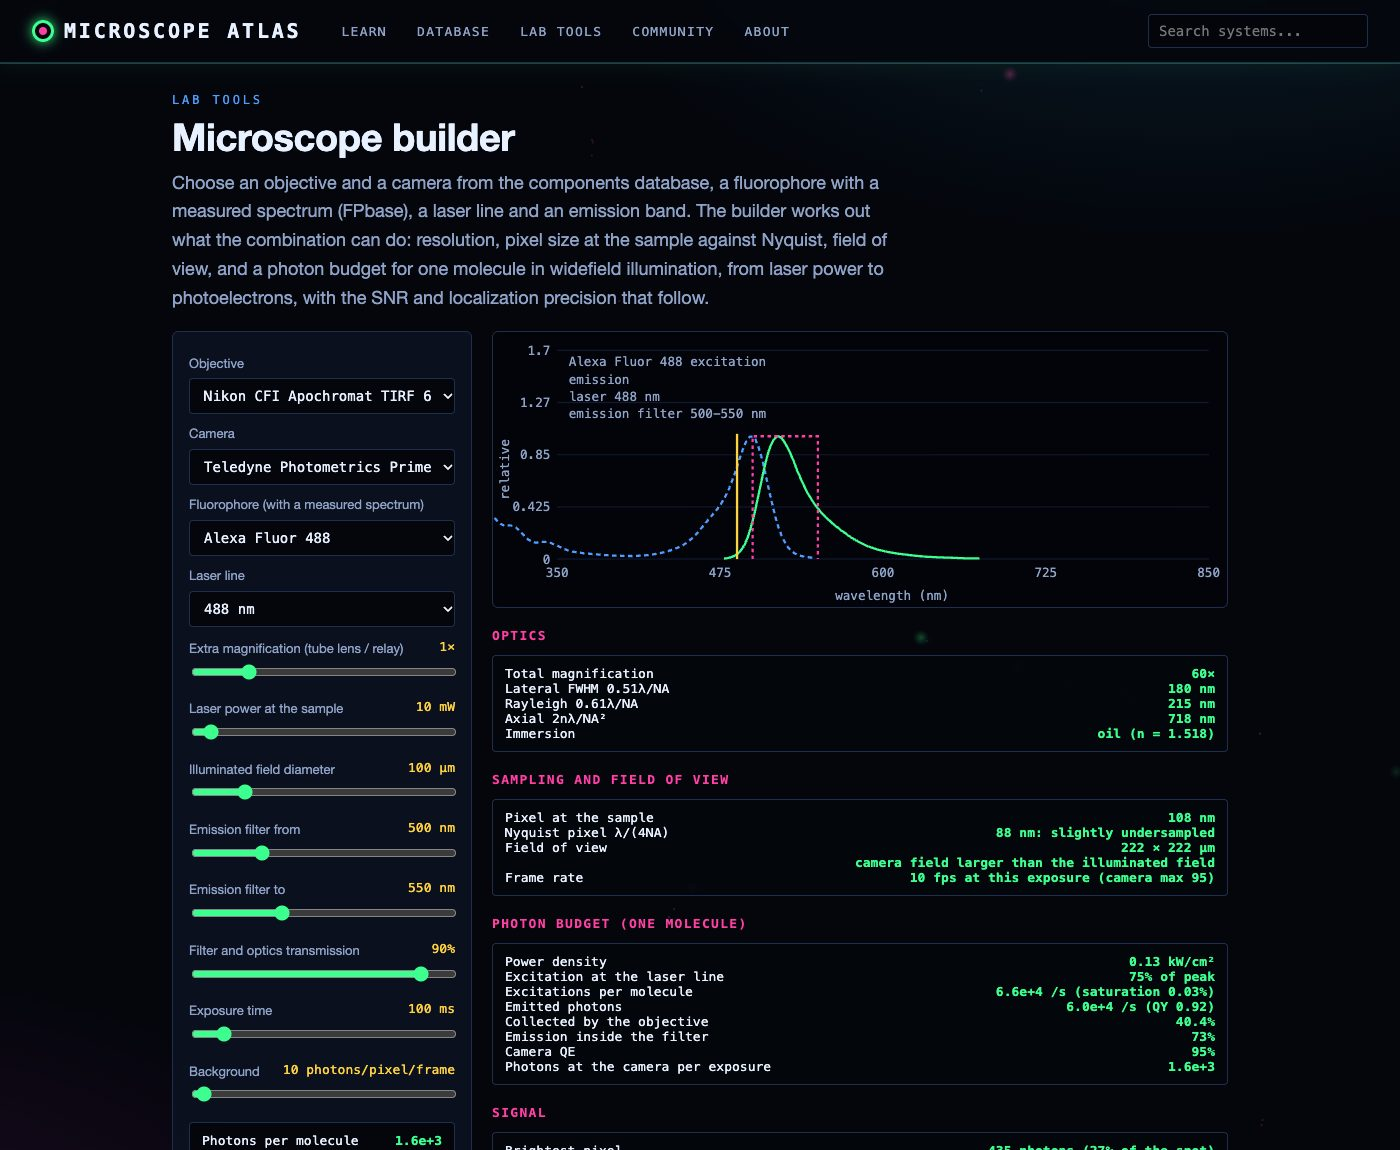
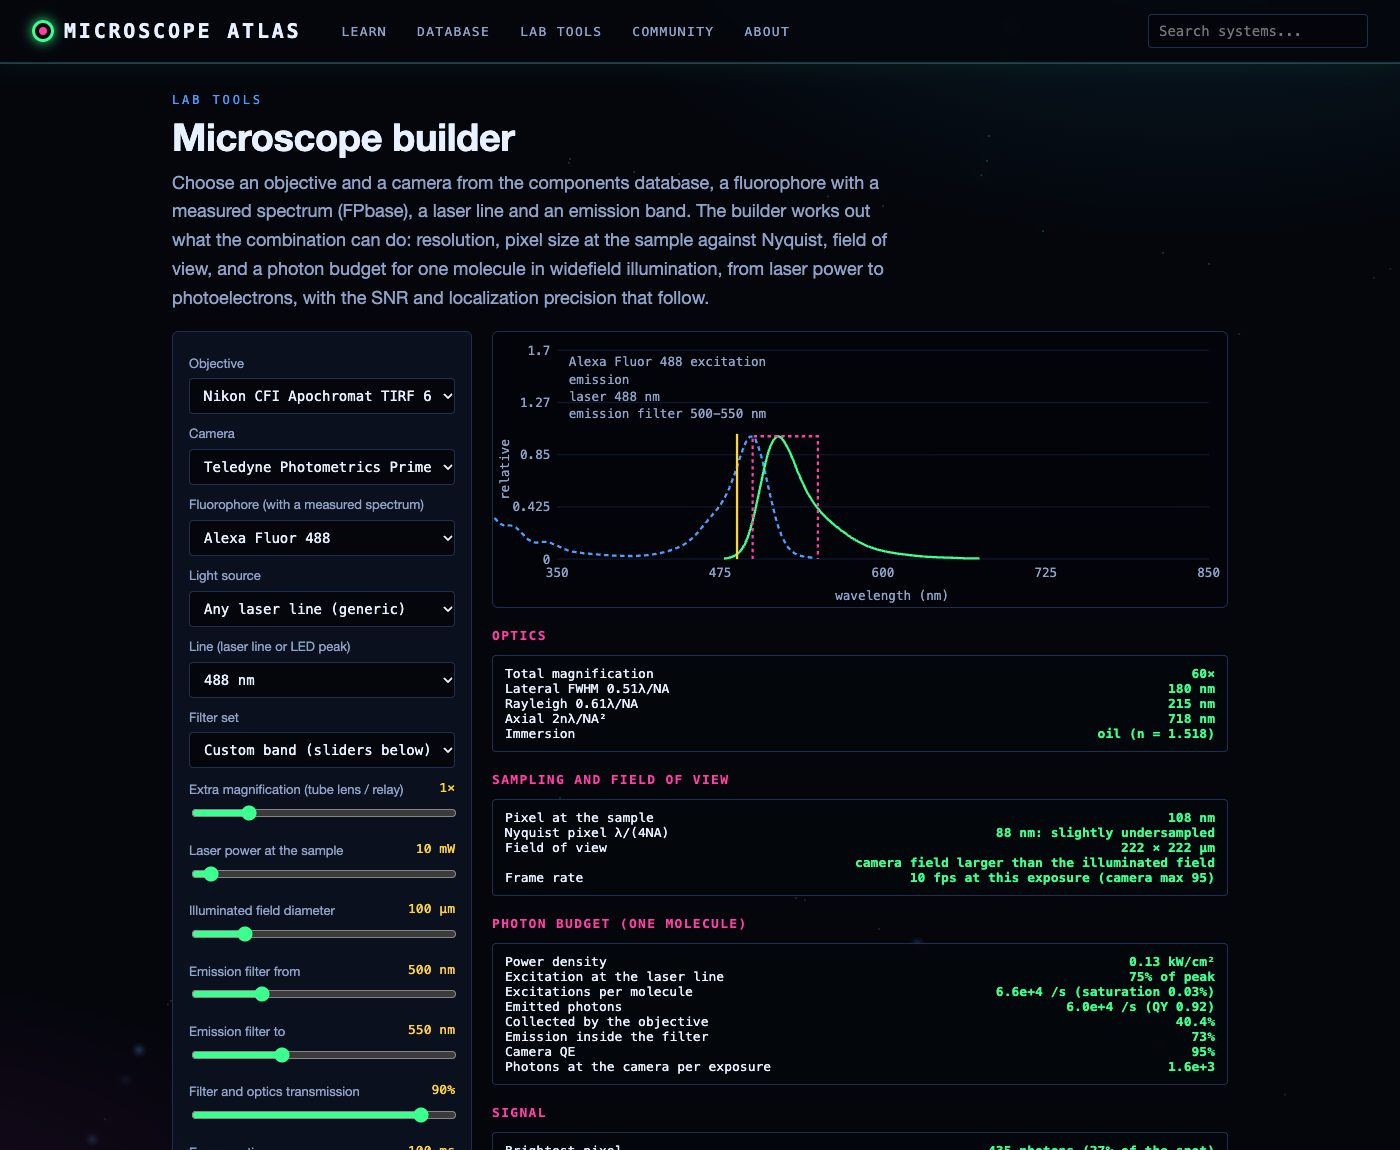
R6: microscope builder picks light sources and filter sets from the database

Changed region(s): [[0.1229, 0.487, 0.3379, 1.0]]

diff --git a/atlas/web/static/builder.js b/atlas/web/static/builder.js
@@ -2,24 +2,42 @@
 // spectrum, a laser line and an emission band; get resolution, sampling, field of view, photon budget and SNR.
 import { route, app, api, esc } from './core.js';
 import { layout, addSlider, setReadout, linePlot, div, fmt } from './sim_ui.js';
-import { parseObjective, parseCamera, report } from './builder_calc.js';
+import { parseObjective, parseCamera, parseSource, parseFilterSet, pickBand, report } from './builder_calc.js';
 
 const LINES = [405, 445, 458, 488, 514, 532, 561, 594, 640, 685, 730];
 const INTRO = 'Choose an objective and a camera from the components database, a fluorophore with a measured spectrum (FPbase), a laser line and an emission band. The builder works out what the combination can do: resolution, pixel size at the sample against Nyquist, field of view, and a photon budget for one molecule in widefield illumination, from laser power to photoelectrons, with the SNR and localization precision that follow.';
 
 route('builder', async () => {
   app().innerHTML = '<p class="kicker"><a href="#/lab">Lab tools</a></p><h1>Microscope builder</h1><div id="mb"><p class="mute">Loading components…</p></div>';
-  const [objs, cams, spectra] = await Promise.all([api('/components/objectives'), api('/components/detectors'), api('/spectra')]);
+  const [objs, cams, spectra, srcs, sets] = await Promise.all(['/components/objectives', '/components/detectors', '/spectra', '/components/light_sources', '/components/filters'].map(u => api(u)));
   const O = objs.map(parseObjective).filter(Boolean), C = cams.map(parseCamera).filter(Boolean), names = Object.keys(spectra).sort();
+  const L = srcs.map(parseSource).filter(Boolean), F = sets.map(parseFilterSet).filter(Boolean);
+  // Lines a source offers: the ones it states, plus the common lines inside a stated range (a family of single lasers).
+  const linesFor = src => !src ? LINES : [...new Set([...src.lines, ...(src.range ? LINES.filter(l => l >= src.range[0] && l <= src.range[1]) : [])])].sort((a, b) => a - b);
   const { controls, view, readout } = layout(app().querySelector('#mb'), INTRO);
   const st = { obj: 'nikon-cfi-apo-tirf-60xc-oil', cam: 'photometrics-prime-bsi-express', extra: 1, fl: names.includes('Alexa Fluor 488') ? 'Alexa Fluor 488' : names[0],
-    laser: 488, power: 10, field: 100, lo: 500, hi: 550, T: 90, exp: 100, bg: 10, qe: 80, read: 1.5, fluor: null };
+    src: '', flt: '', laser: 488, power: 10, field: 100, lo: 500, hi: 550, T: 90, exp: 100, bg: 10, qe: 80, read: 1.5, fluor: null };
   const opt = (rows, cur, lab) => rows.map(r => `<option value="${esc(r.id ?? r)}" ${(r.id ?? r) === cur ? 'selected' : ''}>${esc(lab(r))}</option>`).join('');
   const pick = div(controls);
   pick.innerHTML = `<label>Objective</label><select id="mb-obj">${opt(O, st.obj, o => `${o.label} (${o.M}×/${o.NA})`)}</select>
     <label>Camera</label><select id="mb-cam">${opt(C, st.cam, c => `${c.label} (${c.type})`)}</select>
     <label>Fluorophore (with a measured spectrum)</label><select id="mb-fl">${opt(names, st.fl, n => n)}</select>
-    <label>Laser line</label><select id="mb-laser">${opt(LINES, st.laser, l => l + ' nm')}</select>`;
+    <label>Light source</label><select id="mb-src"><option value="">Any laser line (generic)</option>${opt(L, st.src, x => `${x.label} (${x.type})`)}</select>
+    <label>Line (laser line or LED peak)</label><select id="mb-laser"></select>
+    <label>Filter set</label><select id="mb-flt"><option value="">Custom band (sliders below)</option>${opt(F, st.flt, x => x.label + (x.status === 'discontinued' ? ' (obsolete)' : ''))}</select>`;
+  const lineSel = pick.querySelector('#mb-laser');
+  function mountLines() {
+    const ls = linesFor(L.find(x => x.id === st.src));
+    if (!ls.includes(st.laser)) st.laser = ls.reduce((b, l) => (Math.abs(l - st.laser) < Math.abs(b - st.laser) ? l : b), ls[0]);
+    lineSel.innerHTML = opt(ls, st.laser, l => l + ' nm');
+  }
+  // With a filter set chosen, the emission band is the set's band nearest the dye's emission (above the line).
+  function applyFilter() {
+    const set = F.find(x => x.id === st.flt);
+    if (!set || !st.fluor) return;
+    const [c, w] = pickBand(set.em, st.fluor.em, st.laser);
+    st.lo = Math.round(c - w / 2); st.hi = Math.round(c + w / 2); mountSliders();
+  }
   const sliders = div(controls), assumed = div(controls);
   controls.appendChild(readout);
   const plot = div(view), groups = ['Optics', 'Sampling and field of view', 'Photon budget (one molecule)', 'Signal'].map(h => { const d = div(view); d.innerHTML = `<h3>${h}</h3>`; return div(d, 'readout'); });
@@ -47,16 +65,19 @@ route('builder', async () => {
     const rows = await api('/fluorophores?q=' + encodeURIComponent(name) + '&limit=50');
     st.fluor = (Array.isArray(rows) ? rows : rows.rows || []).find(r => r.name === name) || null;
     if (retune && st.fluor) {
-      st.laser = LINES.filter(l => l <= st.fluor.ex + 5).pop() || LINES[0];
+      const ls = linesFor(L.find(x => x.id === st.src));
+      st.laser = ls.filter(l => l <= st.fluor.ex + 5).pop() || ls[0];
       st.lo = Math.max(st.laser + 10, Math.round(st.fluor.em - 15)); st.hi = st.lo + 50;
-      pick.querySelector('#mb-laser').value = st.laser; mountSliders();
+      mountLines(); mountSliders(); applyFilter();
     }
     draw();
   }
   pick.querySelector('#mb-obj').onchange = e => { st.obj = e.target.value; draw(); };
   pick.querySelector('#mb-cam').onchange = e => { st.cam = e.target.value; mountAssumed(C.find(c => c.id === st.cam)); draw(); };
   pick.querySelector('#mb-fl').onchange = e => setFluor(e.target.value, true);
-  pick.querySelector('#mb-laser').onchange = e => { st.laser = +e.target.value; draw(); };
+  lineSel.onchange = e => { st.laser = +e.target.value; applyFilter(); draw(); };
+  pick.querySelector('#mb-src').onchange = e => { st.src = e.target.value; mountLines(); applyFilter(); draw(); };
+  pick.querySelector('#mb-flt').onchange = e => { st.flt = e.target.value; applyFilter(); draw(); };
 
   function draw() {
     const obj = O.find(o => o.id === st.obj), cam = C.find(c => c.id === st.cam), sp = spectra[st.fl], f = st.fluor;
@@ -83,9 +104,13 @@ route('builder', async () => {
     setReadout(groups[3], [['Brightest pixel', `${fmt(r.peakPx)} photons (${(r.frac * 100).toFixed(0)}% of the spot)`], ['Peak-pixel SNR', fmt(r.snrPeak)],
       ['Localization precision (Thompson; ×√2 for EMCCD)', `${r.locNm.toFixed(1)} nm`], ['Read noise', `${r.read} e⁻${cam.F > 1 ? ' (EM gain, excess noise √2)' : ''}`]]);
     setReadout(readout, [['Photons per molecule per frame', fmt(r.photons)], ['Pixel / Nyquist', `${r.pxS.toFixed(0)} / ${r.nyq.toFixed(0)} nm`], ['σ localization', `${r.locNm.toFixed(1)} nm`]]);
-    srcNote.innerHTML = `<p class="small mute">Specs from the database entries for the <a href="#/components/objectives">objective</a> and <a href="#/components/detectors">camera</a>; ε, QY and lifetime from FPbase for ${esc(st.fl)} (ε ${fmt(f.ec)} M⁻¹cm⁻¹, QY ${f.qy}${f.lifetime ? `, τ ${f.lifetime} ns` : ', τ 3 ns assumed'}).
+    const src = L.find(x => x.id === st.src), set = F.find(x => x.id === st.flt);
+    const exOk = set && set.ex.some(([c, w]) => Math.abs(st.laser - c) <= w / 2);
+    const hw = [src ? `<b>${esc(src.label)}</b>: the <a href="#/components/light_sources">database entry</a> states ${esc(src.power || 'no output power')}; set the power reaching the sample with the slider.${/LED|lamp|light engine/.test(src.type) ? ' LEDs are broad (tens of nm): the budget uses the peak wavelength, so treat it as an estimate.' : ''}` : '',
+      set ? `<b>${esc(set.label)}</b>: emission band ${st.lo}-${st.hi} nm from the set's emitter; the ${st.laser} nm line ${exOk ? 'falls inside' : 'is outside'} its exciter band${exOk ? '' : ' (fine for a laser that bypasses the exciter, not for lamp or LED illumination)'}.` : ''].filter(Boolean).join(' ');
+    srcNote.innerHTML = `${hw ? `<p class="small">${hw}</p>` : ''}<p class="small mute">Specs from the database entries for the <a href="#/components/objectives">objective</a> and <a href="#/components/detectors">camera</a>; ε, QY and lifetime from FPbase for ${esc(st.fl)} (ε ${fmt(f.ec)} M⁻¹cm⁻¹, QY ${f.qy}${f.lifetime ? `, τ ${f.lifetime} ns` : ', τ 3 ns assumed'}).
       Model: flat-top widefield illumination, isotropic emission, σ = 3.82×10⁻²¹ ε cm², two-level saturation, Gaussian PSF; it ignores polarization, blinking, bleaching and optics losses beyond the transmission slider.</p>`;
   }
-  mountSliders(); mountAssumed(C.find(c => c.id === st.cam));
+  mountLines(); mountSliders(); mountAssumed(C.find(c => c.id === st.cam));
   setFluor(st.fl, false);
 });

diff --git a/atlas/web/static/builder_calc.js b/atlas/web/static/builder_calc.js
@@ -61,3 +61,33 @@ export function report(cfg) {
     fpsMax: cam.fps ? Math.min(cam.fps, 1000 / exposureMs) : 1000 / exposureMs,
   };
 }
+
+// Display label: maker + name, without repeating a maker the name already starts with.
+const nameOf = x => { const m = x.manufacturer.split(' (')[0]; return x.name.toLowerCase().startsWith(m.split(' ')[0].toLowerCase()) ? x.name : `${m} ${x.name}`; };
+
+// Light source entry -> { id, label, type, lines: [nm] (discrete lines it states), range: [lo, hi] | null, power } or
+// null for sources the one-photon builder cannot use (pulsed multiphoton/STED lasers, sources with no stated lines).
+export function parseSource(s) {
+  if (/fs|ps laser/.test(s.type)) return null;
+  const w = String((s.specs || {}).Wavelengths || '');
+  const range = w.match(/(\d{3,4})\s*-\s*(\d{3,4})\s*nm/);
+  const lines = [...new Set([...w.replace(/(\d{3,4})\s*-\s*(\d{3,4})/g, ' ').matchAll(/(?<![\w./])(\d{3,4})(?:\/\d+)?(?![\d.])/g)].map(m => +m[1]).filter(v => v >= 300 && v <= 1100))].sort((a, b) => a - b);
+  if (!lines.length && !range) return null;
+  return { id: s.id, label: nameOf(s), type: s.type, lines, range: range ? [+range[1], +range[2]] : null, power: (s.specs || {})['Output power'] || '' };
+}
+
+// "470/40 nm (ET470/40x), 525/36 nm" -> [[470, 40], [525, 36]] (centre / bandwidth pairs; part numbers ignored).
+export const parseBands = text => [...String(text || '').replace(/\([^)]*\)/g, '').matchAll(/(\d{3}(?:\.\d+)?)\/(\d+(?:\.\d+)?)/g)].map(m => [+m[1], +m[2]]);
+
+// Filter-set entry -> { id, label, ex: bands, em: bands } or null when the emission bands are not given as centre/width.
+export function parseFilterSet(f) {
+  const em = parseBands((f.specs || {}).Emission);
+  return em.length ? { id: f.id, label: nameOf(f), ex: parseBands((f.specs || {}).Excitation), em, status: f.status } : null;
+}
+
+// The emission band of a set that a dye uses: the band above the laser line nearest the dye's emission peak.
+export function pickBand(bands, emPeak, laser) {
+  const above = bands.filter(([c, w]) => c - w / 2 > laser);
+  const pool = above.length ? above : bands;
+  return pool.reduce((b, x) => (Math.abs(x[0] - emPeak) < Math.abs(b[0] - emPeak) ? x : b), pool[0]);
+}

diff --git a/ROADMAP.md b/ROADMAP.md
@@ -15,7 +15,7 @@ Rules: sourced data only (see CLAUDE.md); new physics goes in `sim_engine.js` wi
 | R3 | A dedicated light-path diagram for every technique (was 29 of 51), plus step-through mode tying `light_path` steps to highlighted components | 51 of 51 diagrams | completed | 2026-11-10 round 9: 22 new diagrams (FLIM, FRET, FCS, FRAP, SPT, spectral, Raman, CARS/SRS, SHG, QPI, iSCAT, OCT, photoacoustic, X-ray, CLEM, high-content, slide scanner, intravital, miniscope, adaptive optics, light field, open hardware) in `lightpath_defs2.js`, helpers moved to `lightpath_kit.js`; 52 of 52 techniques have their own diagram, enforced by `tests/lightpath.test.mjs`. Round 10: step-through mode (`lightpath_steps.js`): Prev/Next or a click on a step highlights the parts it names (vocabulary + part-name matching on the main clause); 269 of 336 steps linked, coverage tested |
 | R4 | Image Lab: load your own image; PSF blur, noise, FFT, sampling, deconvolution; localize spots in a single-molecule frame | Works on a test TIFF/PNG; numbers checked against Python | completed | 2026-11-10 round 11: `#/imagelab` page (`imagelab.js`): test specimens or your own TIFF/PNG/JPEG as the object; PSF blur, binning, shot/background/read noise, Richardson-Lucy, power spectra with the 2NA/λ circle, Nyquist/SNR/correlation readouts. Browser TIFF reader `imagelab_io.js` checked against tifffile/numpy (`tests/test_imagelab.py`); image physics in `sim_engine_image.js` (re-exported by `sim_engine.js`, node-tested). Round 12: spot localization (`sim_engine_loc.js`: MAD noise, local-maximum detection, LM 2D Gaussian fit, matching to truth) with a single-molecule-frame specimen at known positions; error follows Thompson (3.6 vs 4.2 nm predicted); fits equal scipy curve_fit to 1e-4 |
 | R5 | Microscope builder: pick objective, camera, lasers and filters from the database; compute resolution, sampling, field of view, expected photons and SNR | Configurator page with tests of the calculations | completed | 2026-11-10 round 13: `#/builder` (`builder.js`, `builder_calc.js`): objective and camera from the database (specs parsed from their text: 23 objectives, 18 cameras usable; missing QE/read noise asked from the user), fluorophore with FPbase spectrum and ε/QY/τ, laser line, filter band. Reports resolution, Nyquist sampling, field of view, frame rate, photon budget (power density → σε at the line → saturation → QY → collection cone → band fraction → transmission → QE), peak SNR and localization precision. Physics in `sim_engine_photon.js` (re-exported, node-tested against hand values). Lasers and filter sets become database picks when R6 adds them |
-| R6 | Database growth: lasers and light sources, filter sets, more systems (target 450+), licensed instrument photos (Wikimedia Commons, with credits) | Validator passes; licence recorded per image | in_progress | 2026-11-10 round 14: new component kinds `light_sources` (28: lasers, laser engines, fs lasers, STED laser, LED engines, lamps) and `filters` (16 Chroma/Semrock sets), every spec from a fetched manufacturer page or datasheet (some hosted by distributors or universities, noted); availability caveats in summaries; validator, API, static export and a four-tab components page. Left: builder picks lasers/filters from the database, current Semrock sets, more systems toward 450, instrument photos |
+| R6 | Database growth: lasers and light sources, filter sets, more systems (target 450+), licensed instrument photos (Wikimedia Commons, with credits) | Validator passes; licence recorded per image | in_progress | 2026-11-10 round 14: new component kinds `light_sources` (28: lasers, laser engines, fs lasers, STED laser, LED engines, lamps) and `filters` (16 Chroma/Semrock sets), every spec from a fetched manufacturer page or datasheet (some hosted by distributors or universities, noted); availability caveats in summaries; validator, API, static export and a four-tab components page. Round 15: the builder picks the light source (its stated lines; common lines inside a stated range) and the filter set (emission band nearest the dye above the line; exciter check) from the database; parsers tested on the real entries (16 sources, 15 sets usable). Left: current Semrock sets, more systems toward 450, instrument photos |
 | R7 | Quiz: flashcards with spaced repetition and generated multiple choice | Page works offline; progress persists | completed 2026-11-09 | Six question generators plus 208 flashcards |
 | R8 | Technique comparison matrix (all techniques vs resolution, depth, speed, live-cell, cost) with sortable view | Matrix page | pending | |
 | R9 | Portfolio polish: links to George's public tools (FLIKA plugins etc.), case studies of his imaging work, only with his approval | George has reviewed the page | pending (needs George) | |

diff --git a/INTERFACE.md b/INTERFACE.md
@@ -54,7 +54,7 @@ JSON by `static_api.js`; Python-only tools show a notice.
 | `lab_bench.js`, `lab_bench2.js`, `lab_bench_calc.js`, `lab_bench_data.js` | Bench calculators: molarity, dilution, serial, units, percent, seeding, hemocytometer, centrifuge, recipes, photons |
 | `lab_analysis.js`, `lab_analysis2.js`, `lab_analysis_calc.js` | Analysis: locprec, fretcalc, snr, frapfit, msdtrack, inspect (server-side, `POST /api/lab/inspect` in `atlas/lab_files.py`) |
 | `sim_engine_photon.js` | Photon-budget physics re-exported by `sim_engine.js`: `crossSection`, `photonFlux`, `powerDensity`, `excitationRate`, `emissionRate` (saturation), `collectionEfficiency`, `specAt`, `bandFraction`, `centralPixelFraction` |
-| `builder.js`, `builder_calc.js` | Microscope builder (`#/builder`): `parseObjective`, `parseCamera`, `immersionIndex` read numbers from database spec text; `report` computes resolution, sampling, field, photon budget, SNR |
+| `builder.js`, `builder_calc.js` | Microscope builder (`#/builder`): `parseObjective`, `parseCamera`, `immersionIndex`, `parseSource`, `parseBands`, `parseFilterSet`, `pickBand` read numbers from database spec text; `report` computes resolution, sampling, field, photon budget, SNR |
 | `sim_engine_loc.js` | Localization physics re-exported by `sim_engine.js`: `robustNoise` (median/MAD), `detectSpots`, `fitGaussian2D` (Levenberg-Marquardt), `localize`, `matchLocalizations` |
 | `imagelab.js`, `imagelab_io.js`, `imagelab_spots.js` | Image Lab page (`#/imagelab`): object from a test specimen, a single-molecule frame with known positions, or the user's file; simulated camera image, Richardson-Lucy, spectra; spot localization panel (`spotPanel`); browser TIFF reader `decodeTiff` (+ `unpackBits`, `fromRGBA`, `fromImageFile`) |
 | `tools.js` | Technique chooser (rule table `P` + `score`), optics calculator |

diff --git a/SESSION_LOG.md b/SESSION_LOG.md
@@ -195,3 +195,12 @@ pages only, and spot-checked by curl. ZEISS filter sets were dropped (only secon
 and distributor-hosted sources are noted in the summaries. The `COMPONENT_KINDS` validator now checks ids, status and
 URLs for all four kinds; the API, static export, components page tabs and nav were updated. Server restarted (new
 PID). Next in R6: builder picks lasers and filters from the database, current Semrock sets, more systems, photos.
+
+## 2026-11-10: Round 15 (hourly), R6: builder uses the light-source and filter databases
+The microscope builder now picks a light source and a filter set from the new tables. `parseSource` reads the lines a
+source states, ignoring model codes such as XT730S and Colibri bandwidths, plus the common laser lines inside a stated
+family range. Multiphoton and STED lasers and sources with no stated lines are left out (16 usable). `parseFilterSet`/
+`parseBands` read centre/width bands (15 sets; the Chroma 69002 page gives no widths). `pickBand` chooses the set's
+emission band nearest the dye's emission above the line. The page notes the source's stated output power, warns that
+LED peaks make the budget an estimate, and says whether the line lies inside the set's exciter band. Tests extended in
+`tests/builder.test.mjs`. Builder figure refreshed. Next in R6: current Semrock sets, more systems, photos.

diff --git a/README.md b/README.md
@@ -125,8 +125,10 @@ scale bar, side-by-side ground truth and PNG export.
 | ![Optical table: TIRF](docs/img/table_tirf.jpg) | ![Optical table: STED](docs/img/table_sted.jpg) |
 
 ## Microscope builder
-Pick an objective and a camera from the components database, one of the 71 fluorophores with measured FPbase spectra,
-a laser line and an emission band. The builder reports resolution (FWHM, Rayleigh, axial), pixel size at the sample
+Pick an objective, a camera, a light source and a filter set from the components database, one of the 71
+fluorophores with measured FPbase spectra, and a line. Choosing a laser engine or LED source offers only the lines it
+states, and choosing a filter set takes the emission band the dye would use from that set's emitter. The page also
+warns when the line falls outside the set's exciter. The builder reports resolution (FWHM, Rayleigh, axial), pixel size at the sample
 against Nyquist, field of view and frame rate. It also follows a photon budget for one molecule, in this order:
 power density, absorption cross-section (3.82×10⁻²¹ ε cm²) at the laser line, saturation from the lifetime, quantum
 yield, objective collection angle, fraction of the emission inside the filter, transmission and camera QE. It ends
